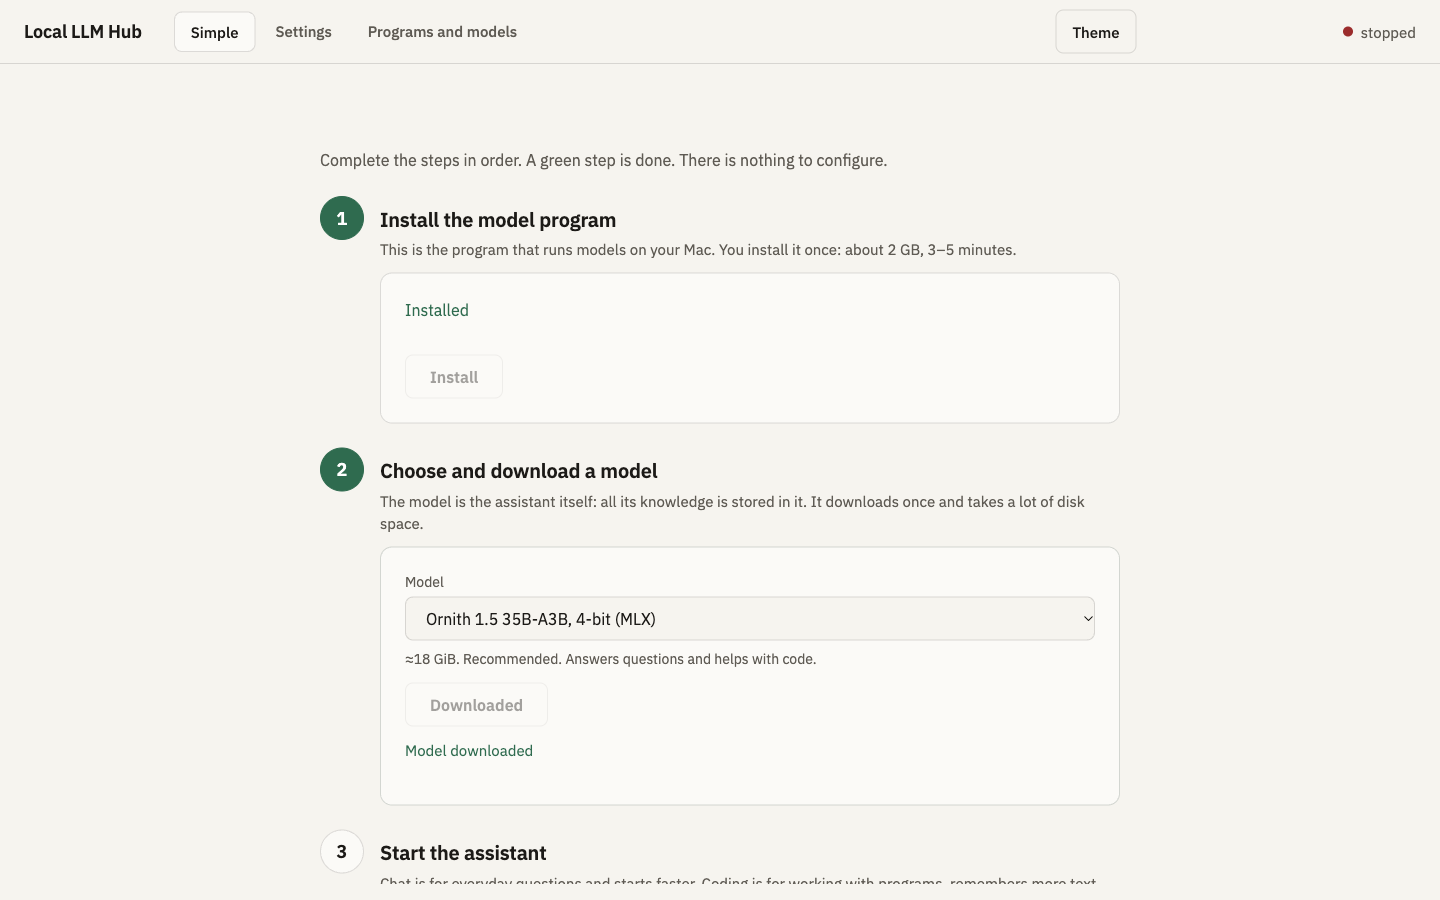
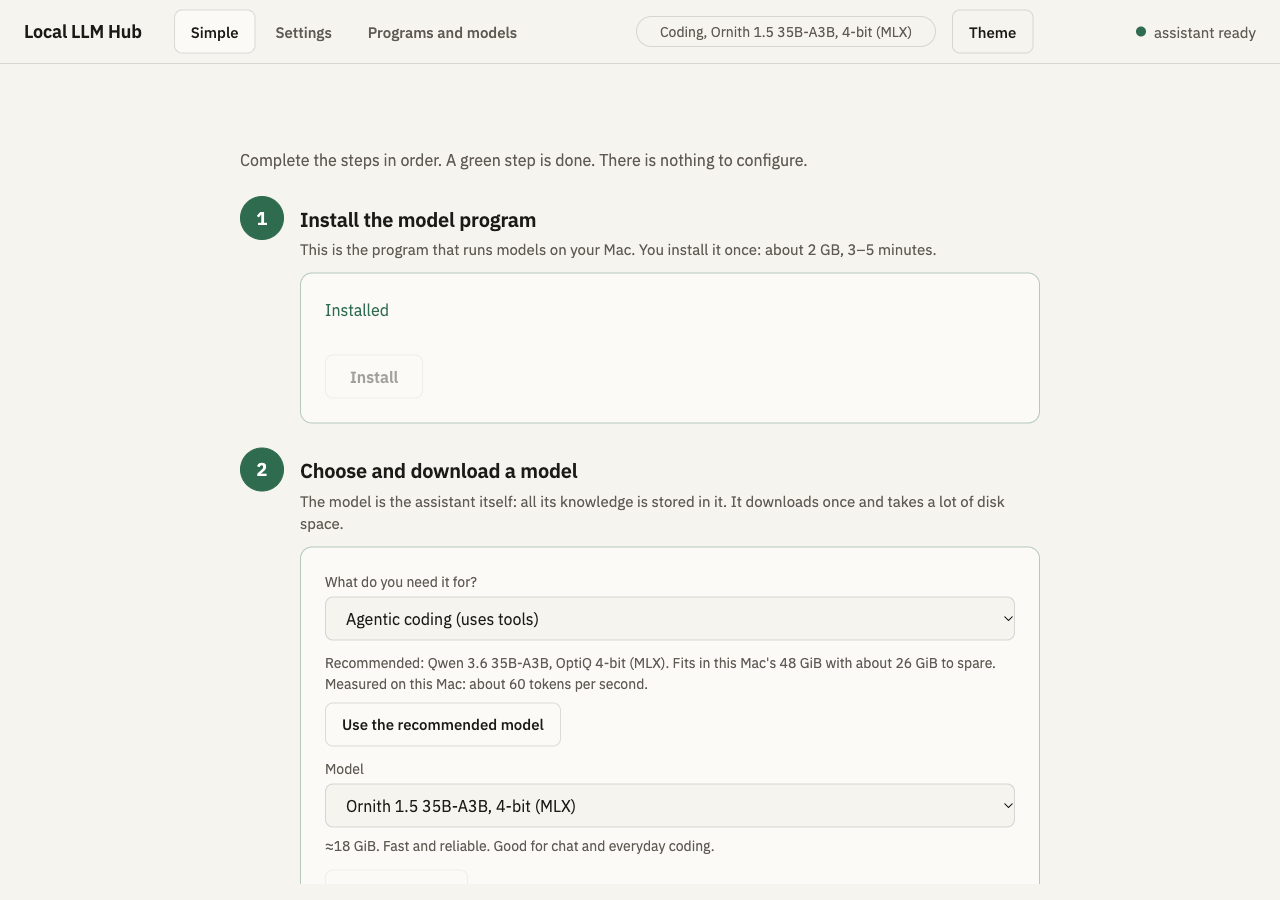
Show the whole Settings layout, load components on start, refresh screenshots
- Settings: launch and status rows size to their content; the status
  panel no longer clips the launch panel or the memory section.
- Simple step 1 read 'Checking...' until the Programs tab was opened:
  the component list now loads on start and refreshes on every view.
- Screenshots of Simple, Settings and Programs refreshed for the current
  interface.

diff --git a/src/llm_hub/static/index.html b/src/llm_hub/static/index.html
@@ -95,7 +95,9 @@
     .good { color: var(--ok); } .warn { color: var(--wait); } .bad { color: var(--off); }
 
     /* Advanced view */
-    #view-panel { display: grid; gap: var(--s-4); grid-template-columns: 360px minmax(0, 1fr) minmax(0, 1.25fr); grid-template-rows: 460px auto auto; }
+    #view-panel { display: grid; gap: var(--s-4); grid-template-columns: 360px minmax(0, 1fr) minmax(0, 1.25fr); grid-template-rows: auto auto auto; }
+    #launch, #state-panel { overflow: visible; }
+    #state-panel { align-self: start; }
     #settings-panel { grid-column: 1 / -1; }
     #view-panel > * { min-width: 0; }
     /* Diagnostics: answer check, program log and history, collapsed by default */

diff --git a/src/llm_hub/static/app.js b/src/llm_hub/static/app.js
@@ -806,6 +806,8 @@ loadComponents();
 refreshLog();
 refreshHistory();
 setInterval(refresh, 4000);
-setInterval(() => { if (!$("view-components").hidden) loadComponents(); }, 6000);
+// Step 1 of the Simple view needs the component list too, so it is loaded on start and kept fresh on every view.
+loadComponents();
+setInterval(loadComponents, 6000);
 setInterval(refreshLog, 4000);
 setInterval(refreshHistory, 8000);
